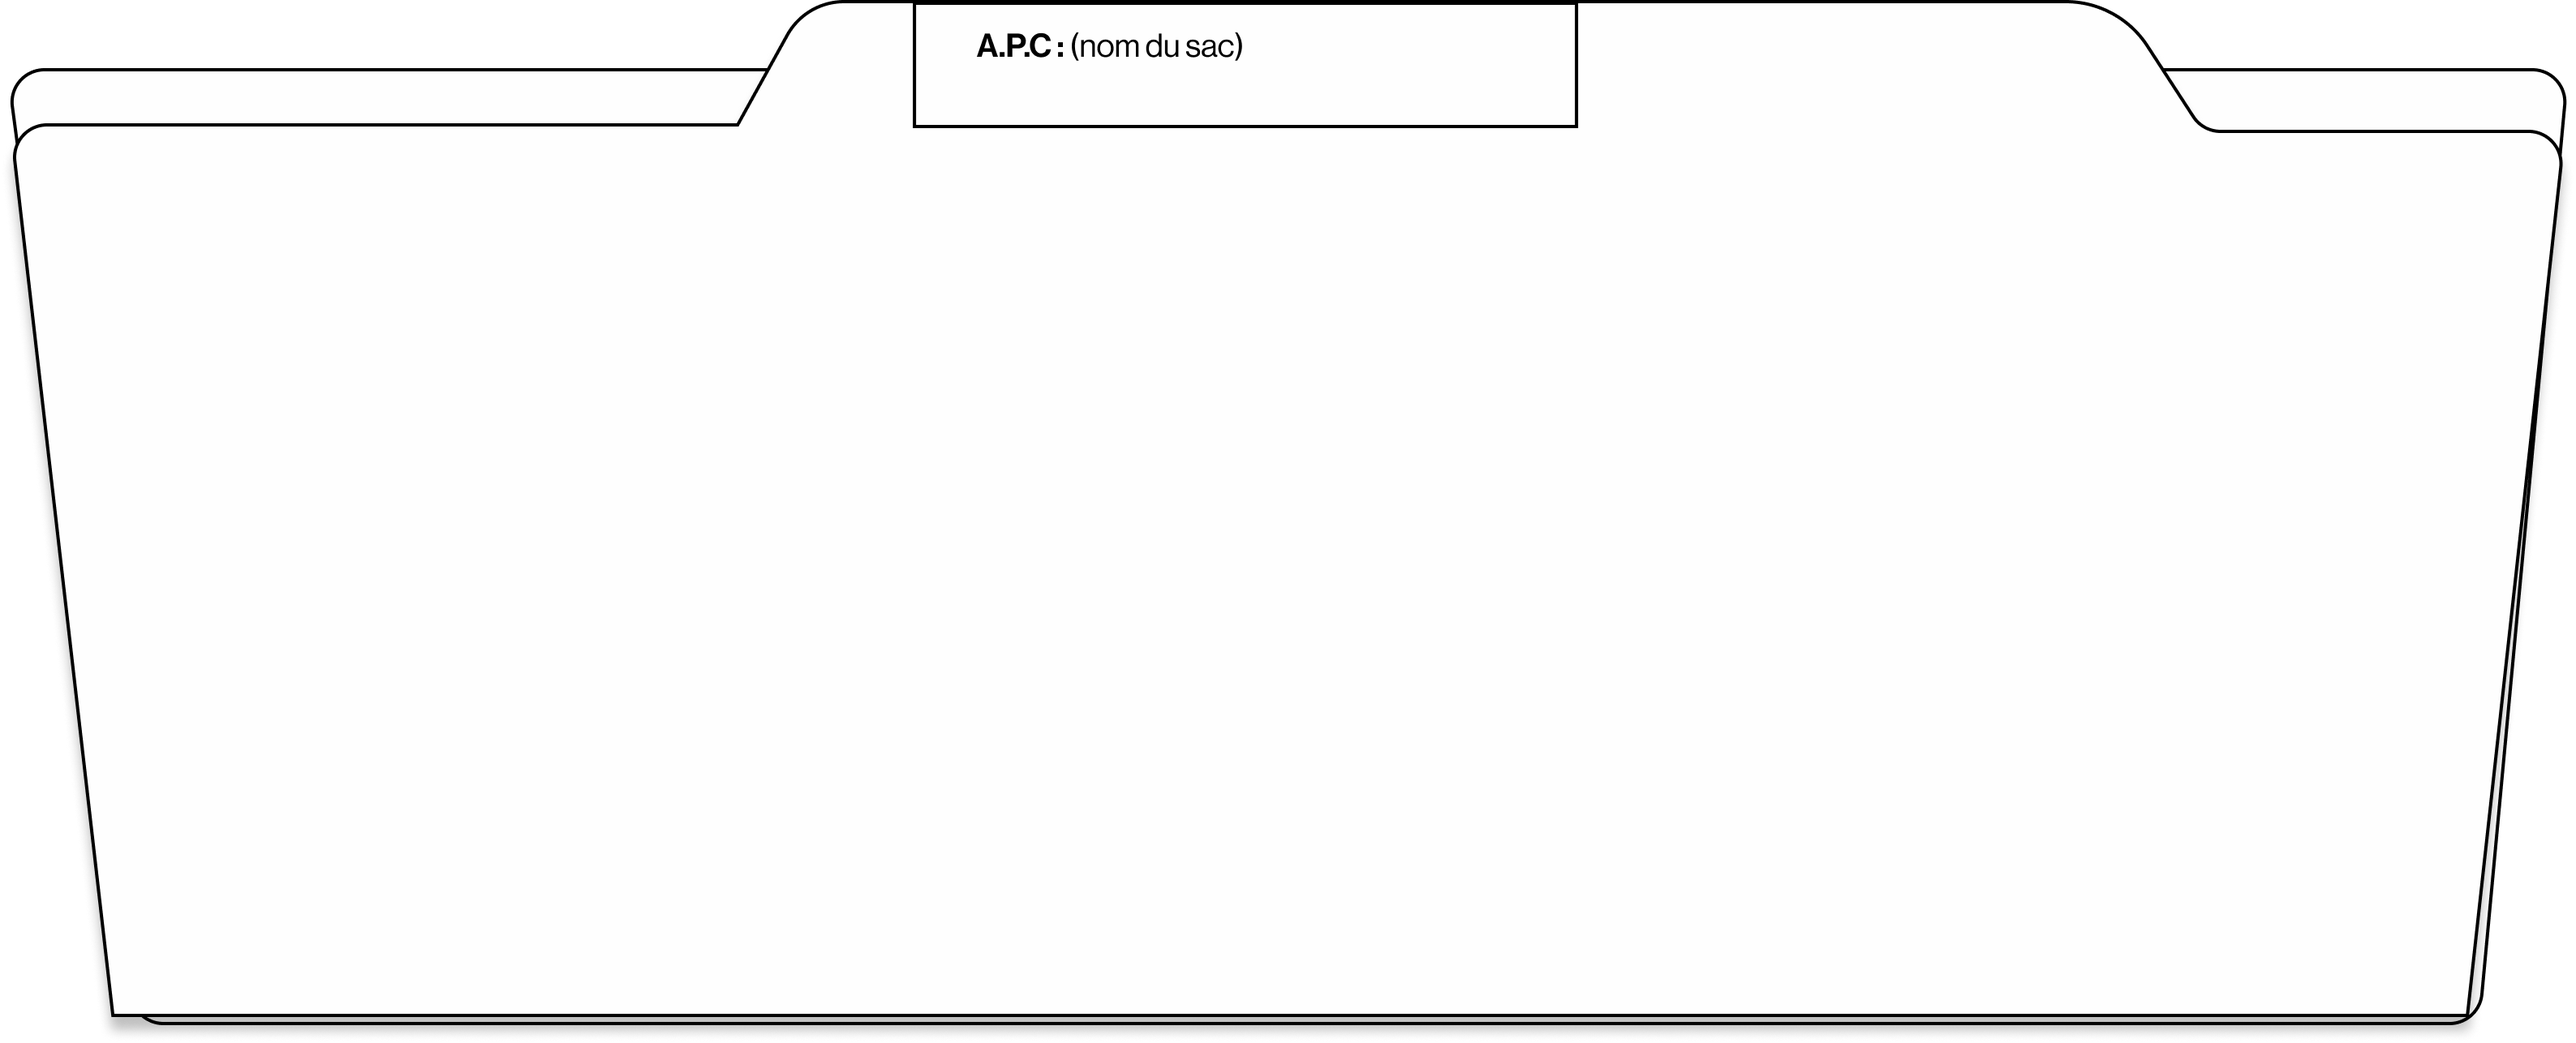
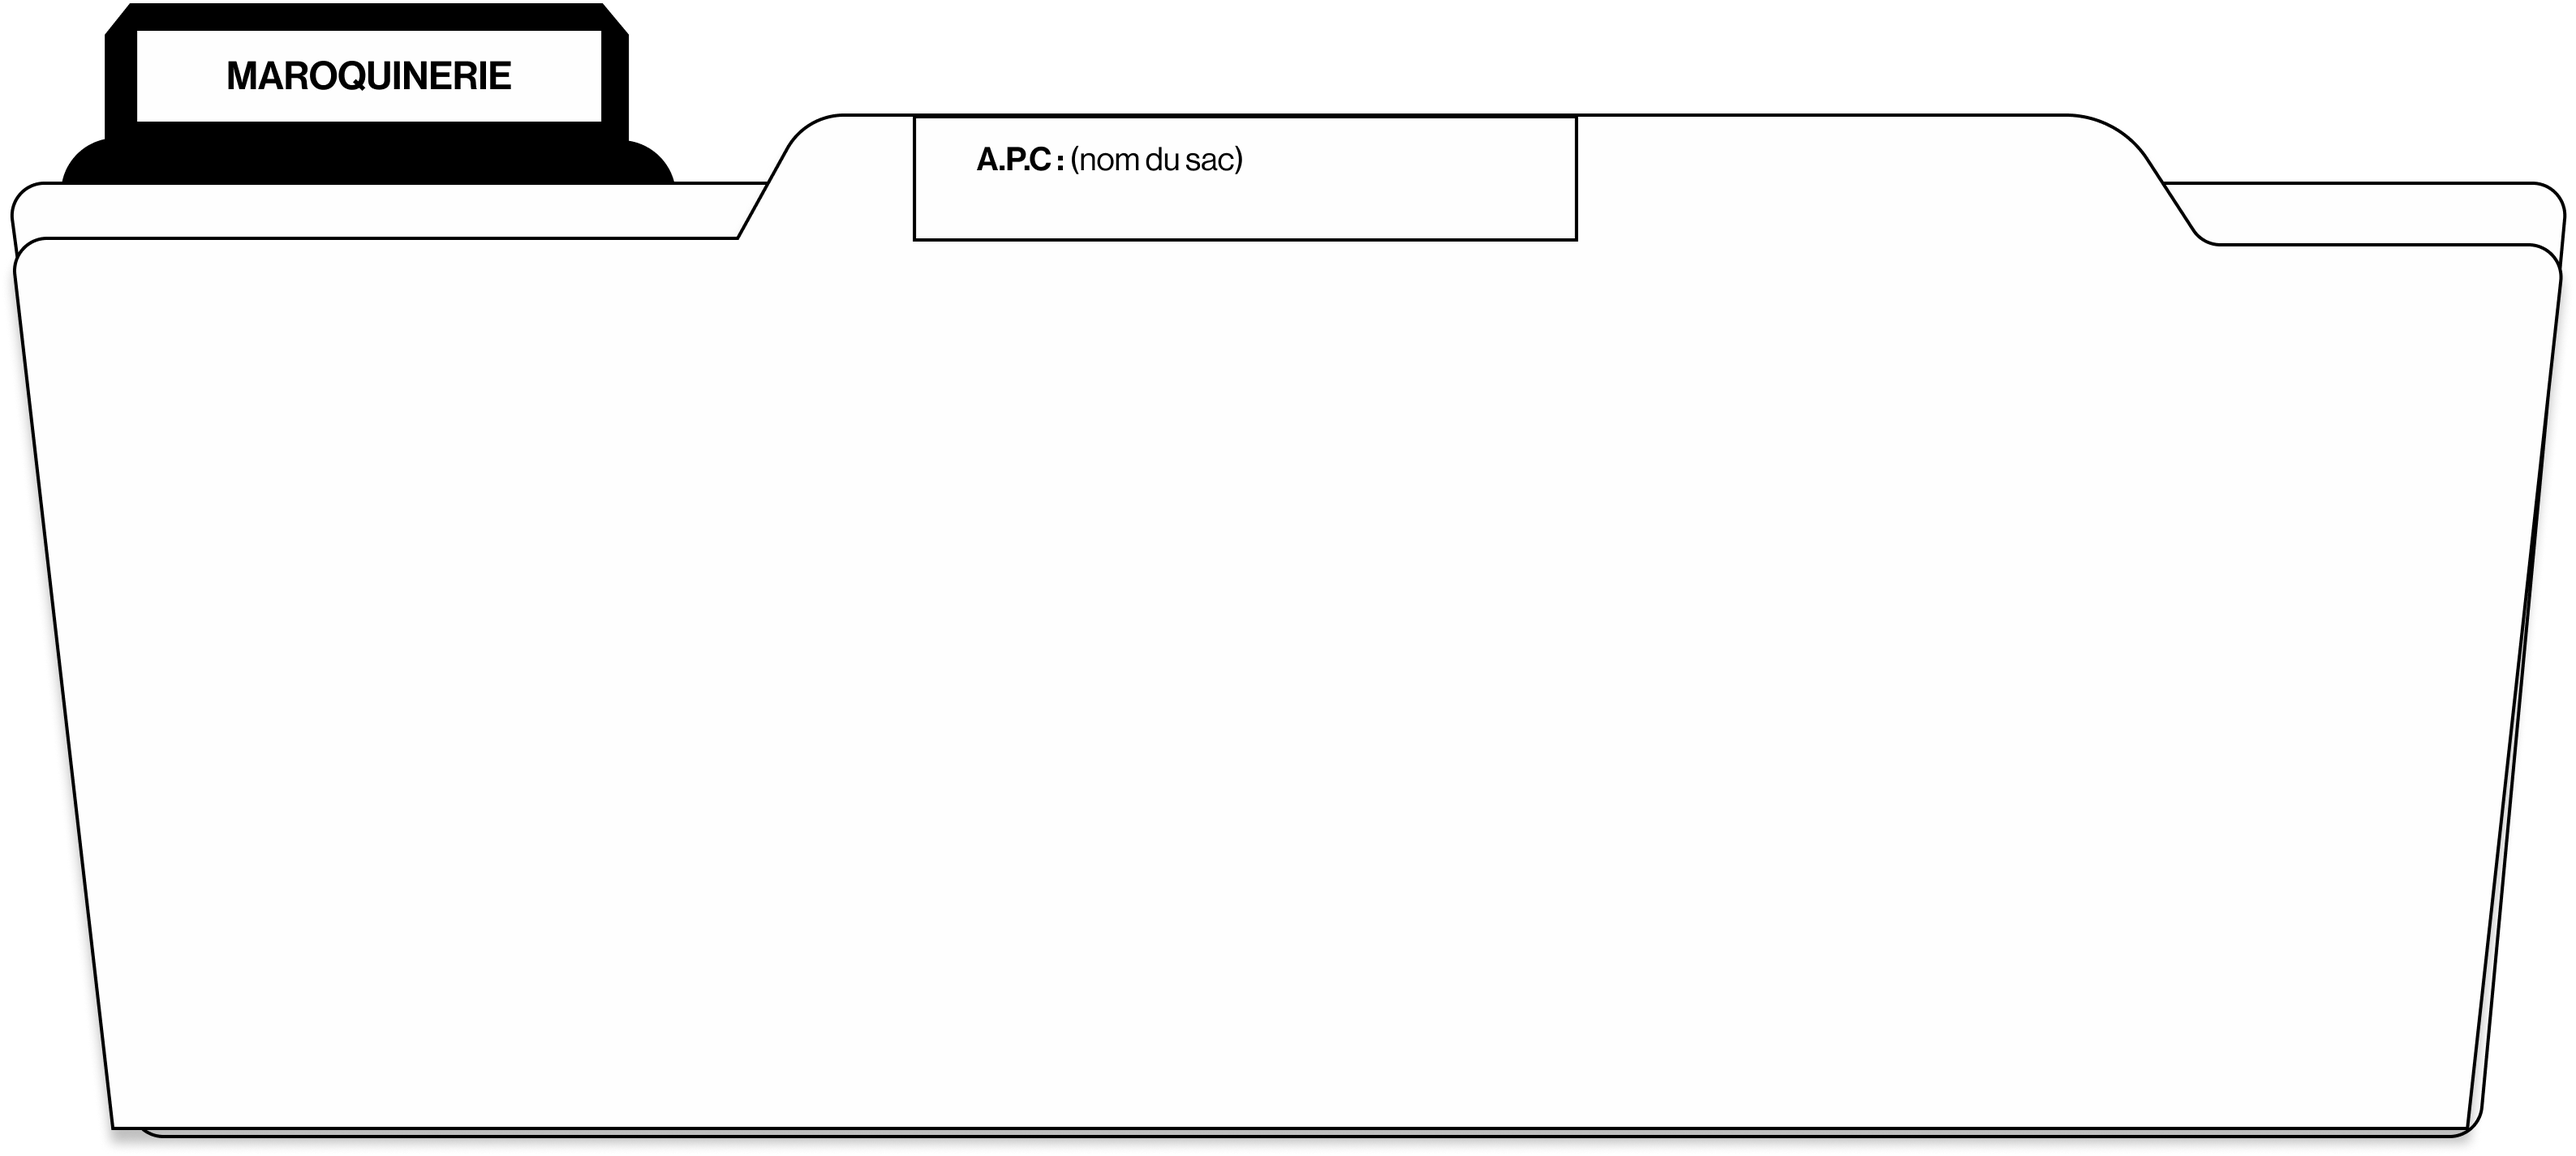
fix separator

diff --git a/src/pages/carel.tsx b/src/pages/carel.tsx
@@ -6,8 +6,6 @@ import Storage from '../features/Carel/static/images/storage.png';
 import Alesia from '../features/Carel/static/images/alesia.png';
 import APC from '../features/Carel/static/images/apc.png';
 import Concorde from '../features/Carel/static/images/concorde.png';
-import BagPage from '../features/Carel/static/images/page_maroquinerie.png'; 
-import ShoesPage from '../features/Carel/static/images/page_shoes.png';
 
 
 
@@ -26,9 +24,7 @@ export default function Carel({ setAcceuil, setLogoFanch, setTextColor }: carelP
   const StorageRef = useRef<HTMLImageElement | null>(null);
   const windowRef = useRef<HTMLDivElement | null>(null);
   const concordeRef = useRef<HTMLImageElement | null>(null);
-  const shoesRef = useRef<HTMLImageElement | null>(null);
   const apcRef = useRef<HTMLImageElement | null>(null);
-  const bagRef = useRef<HTMLImageElement | null>(null);
   const alesiaRef = useRef<HTMLImageElement | null>(null);
 
   useEffect(() => {
@@ -43,13 +39,11 @@ export default function Carel({ setAcceuil, setLogoFanch, setTextColor }: carelP
     const storageEl = StorageRef.current;
     const windowEl = windowRef.current;
 
-    if (!concordeRef.current || !shoesRef.current || !apcRef.current || !bagRef.current || !alesiaRef.current || !wrapperEl || !storageEl || !windowEl || !footerEl) return;
+    if (!concordeRef.current || !apcRef.current || !alesiaRef.current || !wrapperEl || !storageEl || !windowEl || !footerEl) return;
 
     gsap.set(StorageRef.current, { zIndex: 70 });
     gsap.set(concordeRef.current, { zIndex: 60 });
-    gsap.set(shoesRef.current, { zIndex: 50 });
     gsap.set(apcRef.current, { zIndex: 40 });
-    gsap.set(bagRef.current, { zIndex: 30 });
     gsap.set(alesiaRef.current, { zIndex: 20 });
 
 
@@ -78,20 +72,6 @@ export default function Carel({ setAcceuil, setLogoFanch, setTextColor }: carelP
       apcRef.current,
       alesiaRef.current,
     ];
-    gsap.set(bagRef.current,{
-      position: "fixed",
-      left: "25%",
-      top: "50%",
-      xPercent: -25,
-      yPercent: -50,
-    })
-    gsap.set(shoesRef.current,{
-      position: "fixed",
-      left: "65%",
-      top: "50%",
-      xPercent: -65,
-      yPercent: -50,
-    })
 
     gsap.set(all, {
       position: "fixed",
@@ -133,28 +113,8 @@ export default function Carel({ setAcceuil, setLogoFanch, setTextColor }: carelP
       0
     );
 
-    screenTl.fromTo(
-      [bagRef.current, shoesRef.current],
-      { opacity:0, y:50, x: 50, width: "5vw" },
-      { opacity:0, y:120, x: 50, width: "10vw", ease: "power2.out", duration: 1 },
-      0
-    );
-
-    screenTl.fromTo(
-      [bagRef.current, shoesRef.current],
-      { opacity:0},
-      { opacity:1, duration:1},
-      0.3
-    );
-
-    // Display folders animation
-    gsap.set(bagRef.current,{
-      opacity:1,
-    })
     displayFolderTl.to(concordeRef.current, { y: 190 }, 0.0);
-    displayFolderTl.to(shoesRef.current,    { y: 20  }, 0.2);
     displayFolderTl.to(apcRef.current,      { y: 165  }, 0.4);
-    displayFolderTl.to(bagRef.current,      { y: 15  }, 0.6);
     displayFolderTl.to(alesiaRef.current,   { y: 140 }, 0.8);
       
     mainTl.add(screenTl, 0.0);
@@ -183,9 +143,7 @@ export default function Carel({ setAcceuil, setLogoFanch, setTextColor }: carelP
         className="absolute w-[70vw] h-auto"
       />
       <img ref={concordeRef} src={Concorde} alt="Concorde" className="absolute w-[70vw] h-auto"/>
-      <img ref={shoesRef} src={ShoesPage} alt="Shoes" className="absolute  w-[70vw] h-auto"/>
       <img ref={apcRef} src={APC} alt="APC" className="absolute  w-[70vw] h-auto"/>
-      <img ref={bagRef} src={BagPage} alt="Bag" className="absolute  w-[70vw] h-auto"/>
       <img ref={alesiaRef} src={Alesia} alt="Alesia" className="absolute  w-[70vw] h-auto"/>
     </div>
   );
